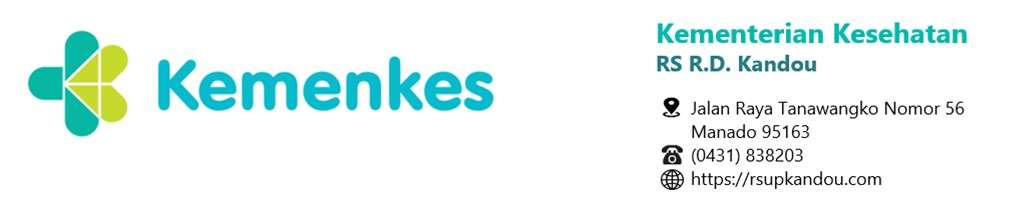
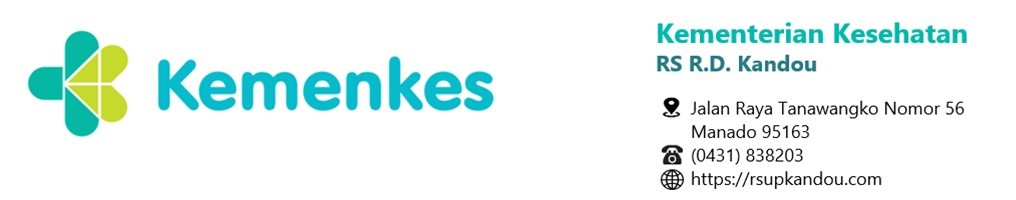
master-blade revisi

diff --git a/resources/views/distribusi/index.blade.php b/resources/views/distribusi/index.blade.php
@@ -70,6 +70,7 @@
         <style>
             @page {
                 margin-left: 2cm;
+                margin-top:0.1cm;
             }
 
             .font_header_kop {
@@ -93,23 +94,25 @@
                 <tr>
                     <td>
                         <div align="left">
-                            <img src="{{asset('assets/img/kandou1.jpg')}}" class="img_header" style="height:70px">
+                            <img src="../assets/img/kandou1.jpg" class="img_header" style="height:75 px;">
+                            {{-- <img src="{{asset('assets/img/kandou1.jpg')}}" style="height:75 px;"> --}}
                         </div>
                     </td>
-                    <td>
+                    {{-- <td>
                         <div>
                             <center>
-                                {{-- KEMENTERIAN KESEHATAN REPUBLIK INDONESIA<br>
+                                KEMENTERIAN KESEHATAN REPUBLIK INDONESIA<br>
                                 DIREKTORAT JENDRAL PELAYANAN KESEHATAN<br>
                                 RSUP PROF. DR. R. D. KANDOU MANADO <br>
-                                JL.RAYA TANAWANGKO PO.BOX 102 MANADO <br> --}}
+                                JL.RAYA TANAWANGKO PO.BOX 102 MANADO <br>
                             </center>
                         </div>
-                    </td>
+                    </td> --}}
                     <td>
                         <div align="right">
-                             <img src="{{asset('assets/img/kandou2.jpg')}}" class="img_header" style="height:70px">
-                        </div>
+                             <img src="../assets/img/kandou2.jpg" class="img_header" style="height:75 px;">
+                             {{-- <img src="{{asset('assets/img/kandou2.jpg')}}" style="height:75 px;" > --}}
+                   </div>
                     </td>
                 </tr>
             </table>
@@ -124,13 +127,11 @@
             <tr>
                 <td>
                     <div align="right">
-
                     </div>
 
                 </td>
                 <td>
                     <div align="center">
-
                     </div>
                 </td>
                 <td>
@@ -138,8 +139,6 @@
                         <h3>
                             <p id="nomer_surat"></p>
                         </h3>
-
-
                     </div>
                 </td>
             </tr>
@@ -149,8 +148,8 @@
 
 
         <table id="mytable">
-            <tr>
-                <td>Tanggal Permintaan</td>
+            <tr >
+                <td style="font-size:1.0em;">Tanggal Permintaan</td>
                 <td>:</td>
                 <td>
                     <p id="tanggal_permintaan">
@@ -287,11 +286,11 @@
 
                             <tr>
                                 <td>
-                                    <p id=""></p>
+                                    <p id="">Patrick M. Andries, ST, MBA, QWP</p>
                                 </td>
                             </tr>
                             <tr>
-                                <td id="">NIP</td>
+                                <td id="">NIK. 1990052720170510895</td>
 
                             </tr>
                         </table>

diff --git a/resources/views/layouts/master.bladebackup.php b/resources/views/layouts/master.bladebackup.php
@@ -41,7 +41,6 @@
 
         gtag('config', 'UA-94034622-3');
     </script>
-    <!-- /END GA -->
 </head>
 
 <body>
@@ -77,26 +76,26 @@
    <script defer src="https://cdn.jsdelivr.net/npm/alpinejs@3.x.x/dist/cdn.min.js"></script>
 
     <!-- General JS Scripts -->
-  <script src="{{ asset('assets/modules/jquery.min.js') }}"></script>
-  <script src="{{ asset('assets/modules/popper.js') }}"></script>
-  <script src="{{ asset('assets/modules/tooltip.js') }}"></script>
-  <script src="{{ asset('assets/modules/bootstrap/js/bootstrap.min.js') }}"></script>
-  <script src="{{ asset('assets/modules/nicescroll/jquery.nicescroll.min.js') }}"></script>
-  <script src="{{ asset('assets/modules/moment.min.js') }}"></script>
-  <script src="{{ asset('assets/js/stisla.js') }}"></script>
+  <script src="assets/modules/jquery.min.js"></script>
+  <script src="assets/modules/popper.js"></script>
+  <script src="assets/modules/tooltip.js"></script>
+  <script src="assets/modules/bootstrap/js/bootstrap.min.js"></script>
+  <script src="assets/modules/nicescroll/jquery.nicescroll.min.js"></script>
+  <script src="assets/modules/moment.min.js"></script>
+  <script src="assets/js/stisla.js"></script>
 
   <!-- JS Libraies -->
-  <script src="{{ asset('assets/modules/datatables/datatables.min.js') }}"></script>
-  <script src="{{ asset('assets/modules/datatables/DataTables-1.10.16/js/dataTables.bootstrap4.min.js') }}"></script>
-  <script src="{{ asset('assets/modules/datatables/Select-1.2.4/js/dataTables.select.min.js') }}"></script>
-  <script src="{{ asset('assets/modules/jquery-ui/jquery-ui.min.js') }}"></script>
+  <script src="assets/modules/datatables/datatables.min.js"></script>
+  <script src="assets/modules/datatables/DataTables-1.10.16/js/dataTables.bootstrap4.min.js"></script>
+  <script src="assets/modules/datatables/Select-1.2.4/js/dataTables.select.min.js"></script>
+  <script src="assets/modules/jquery-ui/jquery-ui.min.js"></script>
 
   <!-- Page Specific JS File -->
-  <script src="{{ asset('assets/js/page/modules-datatables.js') }}"></script>
+  <script src="assets/js/page/modules-datatables.js"></script>
 
   <!-- Template JS File -->
-  <script src="{{ asset('assets/js/scripts.js') }}"></script>
-  <script src="{{ asset('assets/js/custom.js') }}"></script>
+  <script src="assets/js/scripts.js"></script>
+  <script src="assets/js/custom.js"></script>
     @yield('scripts')
 </body>
 </html>

diff --git a/resources/views/distribusi/edit.blade.php b/resources/views/distribusi/edit.blade.php
@@ -79,7 +79,7 @@
                             </div>
                             <div class="form-group col-12 ">
                                 <label>Alasan</label>
-                                <textarea type="text" name="alasan" id="alasan" class="form-control text-uppercase text-left"  >
+                                <textarea type="text" name="alasan" id="alasan" class="form-control  text-left" rows="4" cols="50" >
                                     {{$Distribusi->alasan}}
                                 </textarea>
                             @error('alasan')

diff --git a/resources/views/Home.blade.php b/resources/views/Home.blade.php
@@ -59,14 +59,12 @@
 @endsection
 @section('scripts')
 <script>
-$(document).ready(function(){
-            $('#myTable').DataTable();
-            let column = this;
-            // Create input element
-            let input = document.createElement('input');
-            $("#myTable tr").filter(function() {
-            $(this).toggle($(this).text().toLowerCase().indexOf(value) > -1)
-            });
-});
+
+      $(document).ready(function() {
+        $('#myTable').DataTable();
+
+    });
+
+
 </script>
 @endsection
